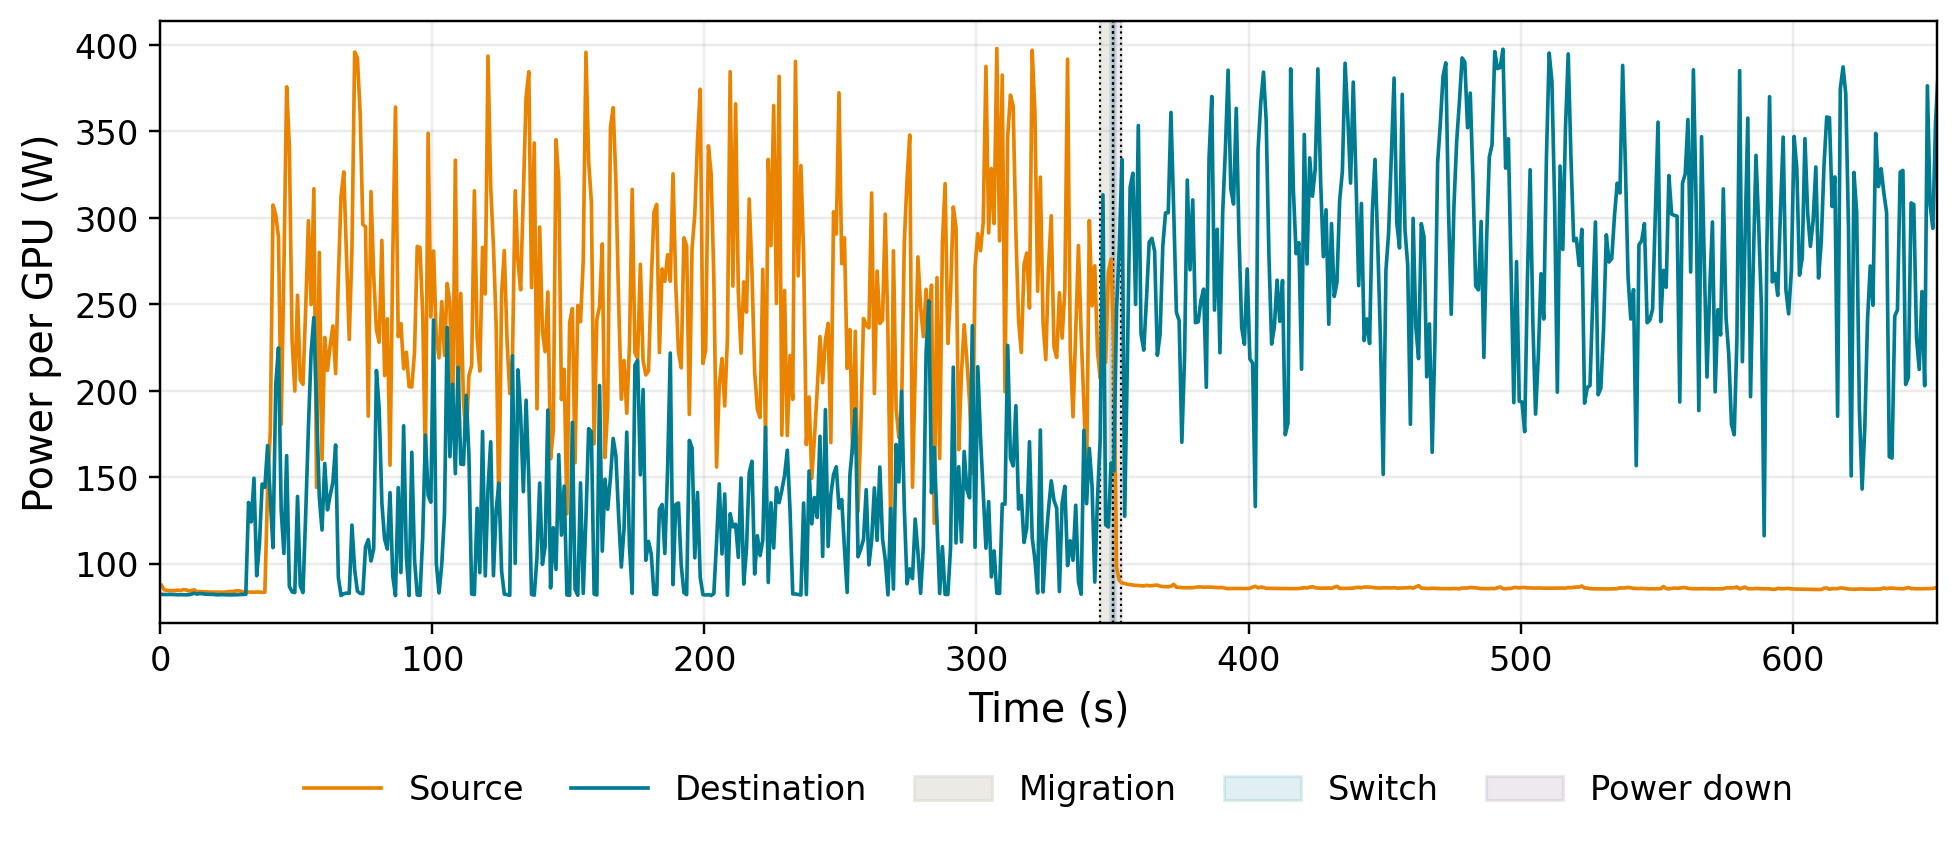
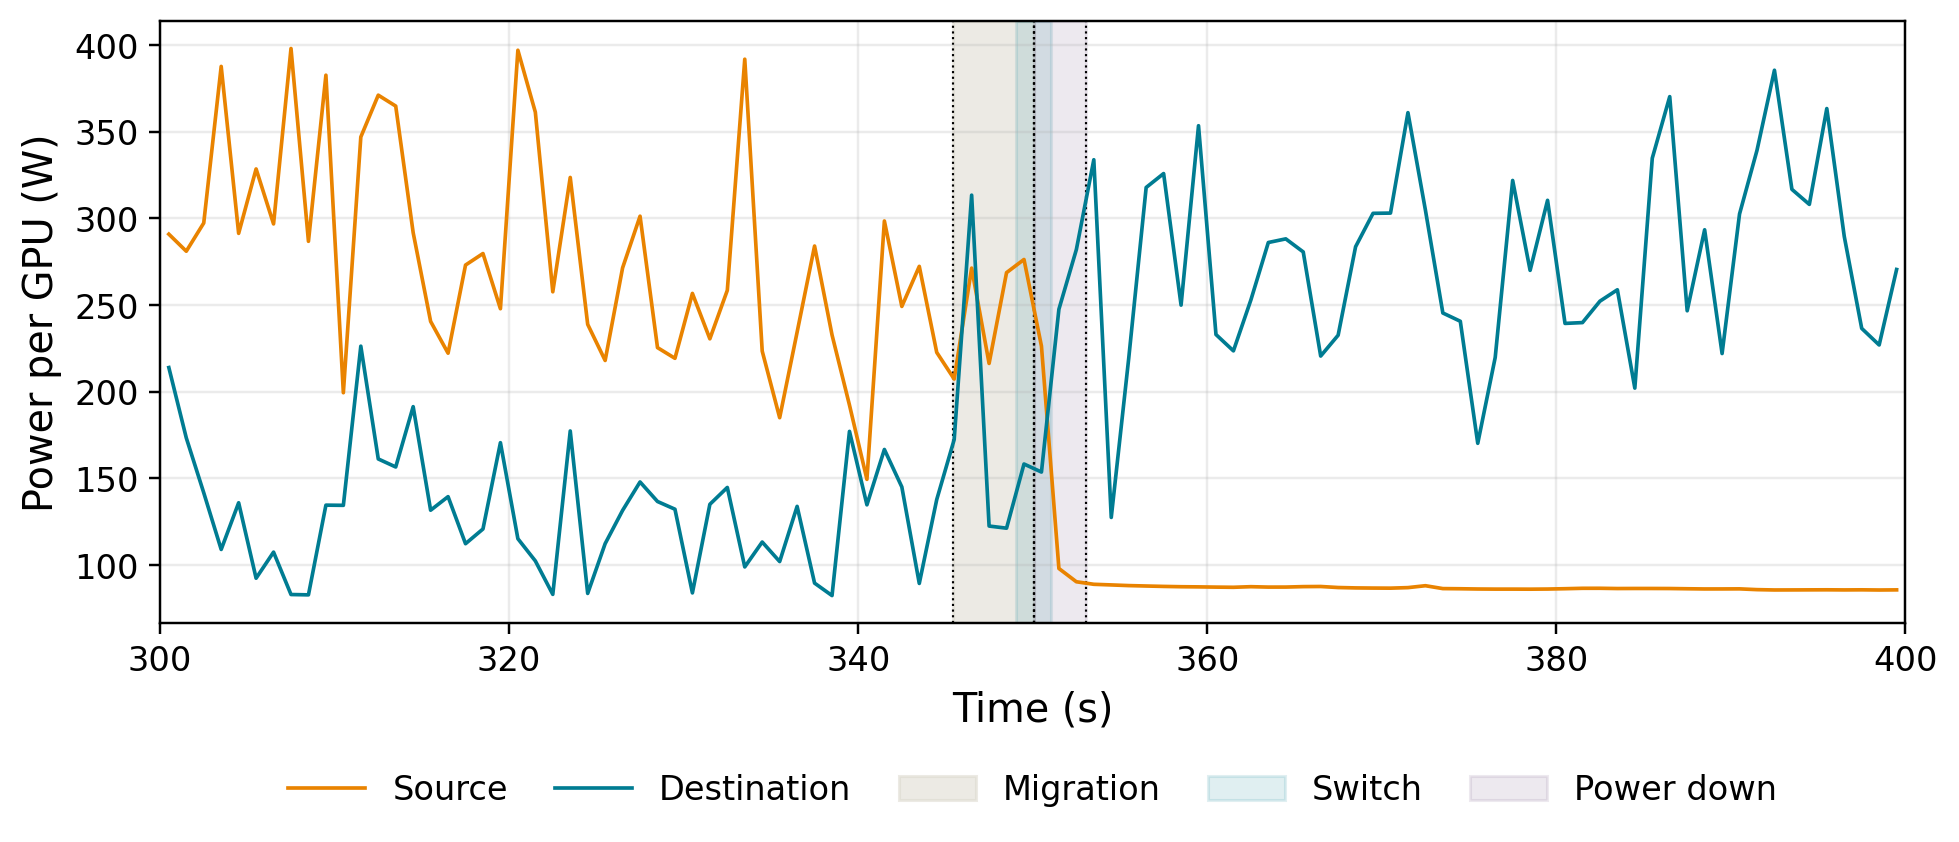
Crop live power plot around handoff

diff --git a/agent-migrate/queue-haul/outputs/live-power-shed/driver.py b/agent-migrate/queue-haul/outputs/live-power-shed/driver.py
@@ -52,6 +52,7 @@ SOURCE_RPS, DEST_RPS = 4.0, 1.0
 BUSY_APPEND_TOKENS, BUSY_OUTPUT_TOKENS = 2048, 32
 SOURCE_INFLIGHT, DEST_INFLIGHT = 64, 48
 STEADY_S, POST_S, MIGRATION_DEADLINE_S = 300, 300, 30
+PLOT_START_S, PLOT_STOP_S = 300, 400
 SOURCE, DESTINATION = "#E98300", "#007C92"
 WINDOWS = (
     ("migration", "migration_start", "migration_complete", "#DAD7CB", .5,
@@ -296,11 +297,12 @@ def series(by_uuid, uuid, origin):
             [float(row["power.draw [W]"]) for row in by_uuid[uuid]])
 
 
-def bin_power(rows: list[dict], origin: float) -> tuple[list[float], list[float]]:
+def bin_power(rows: list[dict], origin: float, start: int = 0,
+              stop: int | None = None) -> tuple[list[float], list[float]]:
     bins = collections.defaultdict(list)
     for row in rows:
         elapsed = parse_wall(row["timestamp"]) - origin
-        if elapsed >= 0:
+        if elapsed >= start and (stop is None or elapsed < stop):
             bins[int(elapsed)].append(float(row["power.draw [W]"]))
     return ([second + .5 for second in sorted(bins)],
             [statistics.mean(bins[second]) for second in sorted(bins)])
@@ -432,8 +434,8 @@ def plot_power(run_root: Path, markers, by_uuid, role_uuids, summary) -> None:
         ("Source", role_uuids[0], SOURCE),
         ("Destination", role_uuids[1], DESTINATION),
     ):
-        ax.plot(*bin_power(by_uuid[uuid], origin), lw=1.2, label=label,
-                color=color, zorder=2)
+        ax.plot(*bin_power(by_uuid[uuid], origin, PLOT_START_S, PLOT_STOP_S),
+                lw=1.2, label=label, color=color, zorder=2)
     for name, start, end, color, alpha, label in WINDOWS:
         left, right = marker[start], marker[end]
         if name == "switch" and right - left < 2:
@@ -443,7 +445,7 @@ def plot_power(run_root: Path, markers, by_uuid, role_uuids, summary) -> None:
         ax.axvline(marker[event], color="black", lw=.7, ls=":", zorder=1)
 
     ax.set(xlabel="Time (s)", ylabel="Power per GPU (W)")
-    ax.set_xlim(0, marker["measurement_complete"])
+    ax.set_xlim(PLOT_START_S, PLOT_STOP_S)
     ax.grid(alpha=.25)
     ax.tick_params(labelsize=11)
     ax.xaxis.label.set_size(13)

diff --git a/agent-migrate/queue-haul/tests/test_live_power_shed.py b/agent-migrate/queue-haul/tests/test_live_power_shed.py
@@ -8,6 +8,7 @@ Plausible wrong implementations:
 - Put a boundary sample in the preceding bin.
 - Sum samples or mis-scale milliseconds as seconds.
 - Include samples before the trace origin.
+- Reindex a cropped trace or use inclusive display-window boundaries.
 - Highlight the wrong migration or traffic-switch boundaries.
 - Conflate route switching with source power-down.
 """
@@ -38,6 +39,8 @@ def test_power_uses_fixed_one_second_mean_bins():
 
     assert times == pytest.approx([.5, 1.5])
     assert watts == pytest.approx([200, 600])
+    assert driver.bin_power(rows, origin, 0, 1) == ([.5], [200])
+    assert driver.bin_power(rows, origin, 1, 2) == ([1.5], [600])
 
 
 def test_highlights_use_measured_migration_switch_and_power_down_boundaries():

diff --git a/agent-migrate/queue-haul/README.md b/agent-migrate/queue-haul/README.md
@@ -708,9 +708,10 @@ and the source drained naturally in 3.002 s before a stable five-minute
 destination hold. Mean source power fell from 255.8 W to 85.8 W while mean
 destination power rose from 128.2 W to 283.4 W. The three replay moves
 recomputed 10,662 tokens; the five KV moves computed 713 tokens while reusing
-2.72 GB of KV. The plot shows fixed 1 s mean power in a compact, outlined view.
-The retained paired 10 Hz samples have 95.6% coverage and the bundle includes
-phase-level engine queue depth and checksum-pinned raw data.
+2.72 GB of KV. The plot shows the 300–400 s handoff region as fixed 1 s mean
+power in a compact, outlined view. The retained paired 10 Hz samples have 95.6%
+coverage and the bundle includes phase-level engine queue depth and
+checksum-pinned raw data.
 `outputs/live-power-handoff-east-germany-20260807/` retains the three-A100
 Sweden-to-East-US-2/West-Germany campaign with 80% source and 50% load at each
 destination. Queue Haul admitted all eight sessions in 29.669 s and KV-only in
